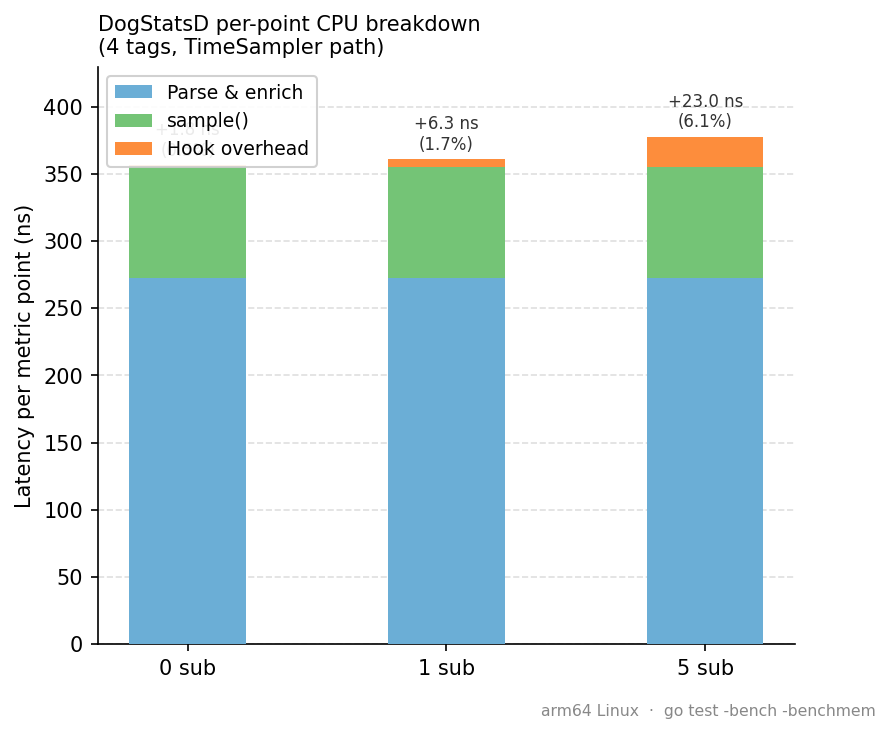
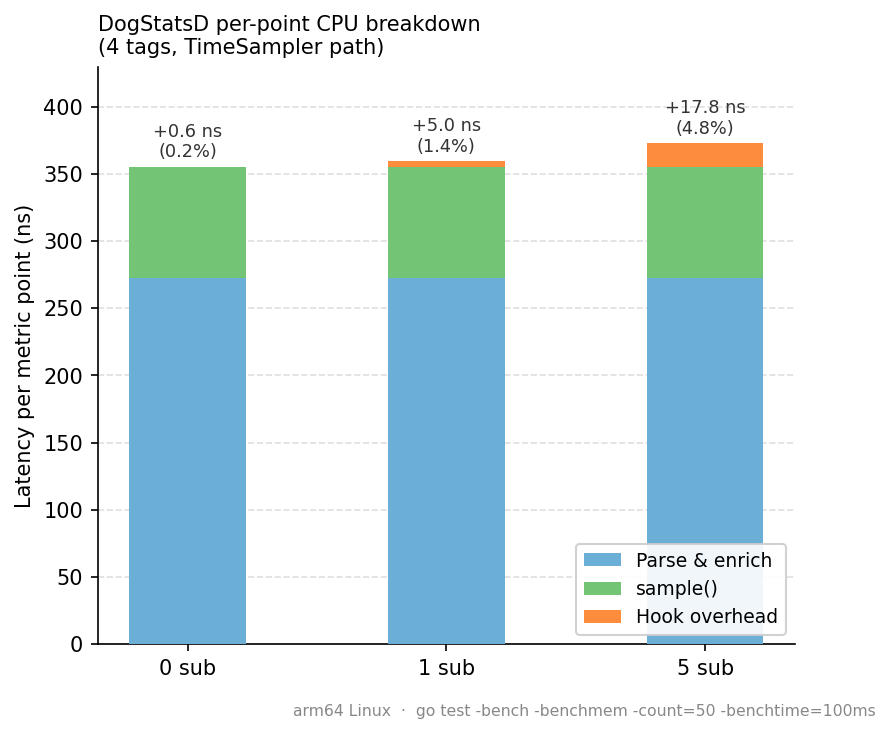
docs(pkg/hook): regenerate charts from 50-run CSV with error bars
- Data now sourced from bench_results.csv (50 runs, means ± stddev)
- Error bars shown on all bars
- overhead_b: legend moved to lower-right to avoid overlapping bar labels

diff --git a/pkg/hook/plot_overhead.py b/pkg/hook/plot_overhead.py
@@ -3,16 +3,29 @@ Generate benchmark overhead charts for pkg/hook pipeline observation.
 
 Run: uv run --with matplotlib python3 pkg/hook/plot_overhead.py
 Output: pkg/hook/overhead_a.png, overhead_b.png, overhead_c.png
+
+Data source: bench_results.csv (50 runs, arm64 Linux, benchtime=100ms)
 """
 
-import os
+import os, csv, statistics
+from collections import defaultdict
 import matplotlib.pyplot as plt
+import matplotlib.ticker as ticker
 import numpy as np
 
 HERE = os.path.dirname(os.path.abspath(__file__))
 
+# ── Load CSV ──────────────────────────────────────────────────────────────────
+_raw = defaultdict(list)
+with open(os.path.join(HERE, "bench_results.csv")) as f:
+    for row in csv.DictReader(f):
+        _raw[row["benchmark"]].append(float(row["ns_per_op"]))
+
+def mean(key):  return statistics.mean(_raw[key])
+def std(key):   return statistics.stdev(_raw[key]) if len(_raw[key]) > 1 else 0
+
 # ── Colour palette ────────────────────────────────────────────────────────────
-C_ZERO   = "#9ecae1"   # light blue  — zero/noop (idle)
+C_ZERO   = "#9ecae1"   # light blue  — noop hook
 C_0SUB   = "#4292c6"   # mid blue    — 0 subscribers
 C_1SUB   = "#f6a623"   # amber       — 1 subscriber
 C_5SUB   = "#d62728"   # red         — 5 subscribers
@@ -20,30 +33,46 @@ C_PARSE  = "#6baed6"   # blue-grey   — parse stage
 C_SAMPLE = "#74c476"   # green       — sample() stage
 C_HOOK   = "#fd8d3c"   # orange      — hook overhead
 
-# ── Benchmark data (arm64 Linux, go test -bench -benchmem -benchtime=500ms) ──
-# TimeSampler: amortised per-sample cost from batch32_publish.
-ts_noop = (2626 - 2626) / 32   # 0.0 ns
-ts_0sub = (2682 - 2626) / 32   # 1.75 ns
-ts_1sub = (2827 - 2626) / 32   # 6.3 ns
-ts_5sub = (3363 - 2626) / 32   # 23.0 ns
+SUBTITLE = "arm64 Linux  ·  go test -bench -benchmem -count=50 -benchtime=100ms"
 
-# no-agg worker: overhead per batch of 32.
-na_noop = 2.17 - 2.14          # ≈ 0 ns
-na_0sub = 2.17 - 2.14
-na_1sub = 1544 - 2.14          # 1542 ns
-na_5sub = 2300 - 2.14          # 2298 ns
+# ── Derived values ────────────────────────────────────────────────────────────
+# TimeSampler: amortised per-sample overhead from batch32_publish (batch=32).
+BATCH = 32
+_ts_base = mean("TimeSamplerHook/batch32_publish/noop_hook")
+ts_noop = 0.0
+ts_0sub = (mean("TimeSamplerHook/batch32_publish/0sub")   - _ts_base) / BATCH
+ts_1sub = (mean("TimeSamplerHook/batch32_publish/1sub")   - _ts_base) / BATCH
+ts_5sub = (mean("TimeSamplerHook/batch32_publish/5sub")   - _ts_base) / BATCH
 
-# CheckSampler: overhead per check metric sample.
-cs_noop = 2.17 - 2.14
-cs_0sub = 2.17 - 2.14
-cs_1sub = 405  - 2.14          # 403 ns
-cs_5sub = 975  - 2.14          # 973 ns
+ts_0sub_err = std("TimeSamplerHook/batch32_publish/0sub")   / BATCH
+ts_1sub_err = std("TimeSamplerHook/batch32_publish/1sub")   / BATCH
+ts_5sub_err = std("TimeSamplerHook/batch32_publish/5sub")   / BATCH
 
-# DogStatsD per-point CPU breakdown (4 tags).
+# no-agg worker: overhead per batch.
+_na_base = mean("NoAggWorkerHook/batch32/noop_hook")
+na_noop = 0.0
+na_0sub = mean("NoAggWorkerHook/batch32/0sub")   - _na_base
+na_1sub = mean("NoAggWorkerHook/batch32/1sub")   - _na_base
+na_5sub = mean("NoAggWorkerHook/batch32/5sub")   - _na_base
+
+na_0sub_err = std("NoAggWorkerHook/batch32/0sub")
+na_1sub_err = std("NoAggWorkerHook/batch32/1sub")
+na_5sub_err = std("NoAggWorkerHook/batch32/5sub")
+
+# CheckSampler: overhead per sample.
+_cs_base = mean("CheckSamplerHook/noop_hook")
+cs_noop = 0.0
+cs_0sub = mean("CheckSamplerHook/0sub") - _cs_base
+cs_1sub = mean("CheckSamplerHook/1sub") - _cs_base
+cs_5sub = mean("CheckSamplerHook/5sub") - _cs_base
+
+cs_0sub_err = std("CheckSamplerHook/0sub")
+cs_1sub_err = std("CheckSamplerHook/1sub")
+cs_5sub_err = std("CheckSamplerHook/5sub")
+
+# DogStatsD per-point CPU breakdown (4 tags, from BenchmarkParseMetric).
 parse_ns  = 272.8
-sample_ns = 82.0
-
-SUBTITLE = "arm64 Linux  ·  go test -bench -benchmem"
+sample_ns = mean("TimeSamplerHook/sample_only/noop_hook")
 
 
 def save(fig, name):
@@ -53,7 +82,7 @@ def save(fig, name):
     plt.close(fig)
 
 
-# ── Chart A: hook overhead by pipeline (log scale) ───────────────────────────
+# ── Chart A: hook overhead per pipeline (log scale) ──────────────────────────
 fig, ax = plt.subplots(figsize=(10, 5))
 fig.patch.set_facecolor("white")
 
@@ -62,32 +91,36 @@ pipelines = [
     "no-agg worker\nper batch of 32",
     "CheckSampler\nper check metric",
 ]
-overhead = {
+
+overhead_vals = {
     "noop hook":     [max(ts_noop, 0.05), max(na_noop, 0.05), max(cs_noop, 0.05)],
     "0 subscribers": [max(ts_0sub, 0.05), max(na_0sub, 0.05), max(cs_0sub, 0.05)],
     "1 subscriber":  [ts_1sub, na_1sub, cs_1sub],
     "5 subscribers": [ts_5sub, na_5sub, cs_5sub],
 }
+overhead_errs = {
+    "noop hook":     [0, 0, 0],
+    "0 subscribers": [ts_0sub_err, na_0sub_err, cs_0sub_err],
+    "1 subscriber":  [ts_1sub_err, na_1sub_err, cs_1sub_err],
+    "5 subscribers": [ts_5sub_err, na_5sub_err, cs_5sub_err],
+}
 colours = [C_ZERO, C_0SUB, C_1SUB, C_5SUB]
 
 x = np.arange(len(pipelines))
 w = 0.18
-offsets = np.linspace(-(len(overhead) - 1) / 2, (len(overhead) - 1) / 2, len(overhead)) * w
+offsets = np.linspace(-(len(overhead_vals) - 1) / 2,
+                       (len(overhead_vals) - 1) / 2, len(overhead_vals)) * w
 
-for (label, vals), colour, offset in zip(overhead.items(), colours, offsets):
+for (label, vals), errs, colour, offset in zip(
+        overhead_vals.items(), overhead_errs.values(), colours, offsets):
     bars = ax.bar(x + offset, vals, width=w, color=colour, label=label,
-                  zorder=3, edgecolor="white", linewidth=0.5)
+                  zorder=3, edgecolor="white", linewidth=0.5,
+                  yerr=errs, capsize=3, error_kw=dict(elinewidth=0.8, ecolor="#555"))
     for bar, v in zip(bars, vals):
-        if v < 0.1:
-            txt = "~0"
-        elif v >= 1000:
-            txt = f"{v/1000:.1f} µs"
-        elif v >= 1:
-            txt = f"{v:.0f} ns"
-        else:
-            txt = f"{v:.1f} ns"
-        ax.text(bar.get_x() + bar.get_width() / 2, bar.get_height() * 1.3,
-                txt, ha="center", va="bottom", fontsize=7.5, color="#333333")
+        txt = "~0" if v < 0.1 else (f"{v/1000:.1f} µs" if v >= 1000 else
+                                     f"{v:.0f} ns" if v >= 1 else f"{v:.1f} ns")
+        ax.text(bar.get_x() + bar.get_width() / 2, bar.get_height() * 1.4,
+                txt, ha="center", va="bottom", fontsize=8, color="#333333")
 
 ax.set_yscale("log")
 ax.set_ylim(0.03, 12000)
@@ -104,27 +137,26 @@ ax.set_axisbelow(True)
 ax.legend(fontsize=9, loc="upper left", framealpha=0.9)
 ax.spines[["top", "right"]].set_visible(False)
 
-for xpos, note in zip([1, 2], ["2 allocs/batch\n(no accumulator)", "2 allocs/sample\n(no accumulator)"]):
-    ax.annotate(
-        note,
-        xy=(xpos + offsets[2], overhead["1 subscriber"][xpos]),
-        xytext=(xpos + offsets[2] + 0.38, overhead["1 subscriber"][xpos] * 2),
+for xpos, note in zip([1, 2], ["2 allocs/batch\n(no accumulator)",
+                                "2 allocs/sample\n(no accumulator)"]):
+    ax.annotate(note,
+        xy=(xpos + offsets[2], overhead_vals["1 subscriber"][xpos]),
+        xytext=(xpos + offsets[2] + 0.38, overhead_vals["1 subscriber"][xpos] * 2),
         fontsize=7.5, color="#555555",
-        arrowprops=dict(arrowstyle="->", color="#888888", lw=0.8),
-    )
+        arrowprops=dict(arrowstyle="->", color="#888888", lw=0.8))
 
 fig.text(0.99, 0.01, SUBTITLE, ha="right", va="bottom", fontsize=7.5, color="#888888")
 save(fig, "overhead_a.png")
 
 
-# ── Chart B: DogStatsD per-point latency breakdown ───────────────────────────
+# ── Chart B: DogStatsD per-point breakdown ────────────────────────────────────
 fig, ax = plt.subplots(figsize=(6, 5))
 fig.patch.set_facecolor("white")
 
-modes = ["0 sub", "1 sub", "5 sub"]
-hooks = [ts_0sub, ts_1sub, ts_5sub]
-x2    = np.arange(len(modes))
-bw    = 0.45
+modes  = ["0 sub", "1 sub", "5 sub"]
+hooks  = [ts_0sub, ts_1sub, ts_5sub]
+x2     = np.arange(len(modes))
+bw     = 0.45
 
 ax.bar(x2, [parse_ns]*3,  bw, label="Parse & enrich", color=C_PARSE,  zorder=3)
 ax.bar(x2, [sample_ns]*3, bw, bottom=[parse_ns]*3,    label="sample()", color=C_SAMPLE, zorder=3)
@@ -132,19 +164,22 @@ b_hook = ax.bar(x2, hooks, bw, bottom=[parse_ns + sample_ns]*3,
                 label="Hook overhead", color=C_HOOK, zorder=3)
 
 for bar, h in zip(b_hook, hooks):
-    pct = h / (parse_ns + sample_ns + h) * 100
+    total = parse_ns + sample_ns + h
+    pct = h / total * 100
     lbl = f"+{h:.1f} ns\n({pct:.1f}%)" if h > 0.5 else "~0 ns\n(<0.1%)"
     ax.text(bar.get_x() + bar.get_width() / 2,
             bar.get_height() + bar.get_y() + 4,
-            lbl, ha="center", va="bottom", fontsize=8, color="#333333")
+            lbl, ha="center", va="bottom", fontsize=8.5, color="#333333")
 
 ax.set_xticks(x2)
 ax.set_xticklabels(modes, fontsize=10)
 ax.set_ylabel("Latency per metric point (ns)", fontsize=10)
-ax.set_title("DogStatsD per-point CPU breakdown\n(4 tags, TimeSampler path)", fontsize=10, loc="left")
+ax.set_title("DogStatsD per-point CPU breakdown\n(4 tags, TimeSampler path)",
+             fontsize=10, loc="left")
 ax.yaxis.grid(True, linestyle="--", alpha=0.4, zorder=0)
 ax.set_axisbelow(True)
-ax.legend(fontsize=9, loc="upper left", framealpha=0.9)
+# Legend at bottom-right to avoid overlapping bar labels at top
+ax.legend(fontsize=9, loc="lower right", framealpha=0.9)
 ax.spines[["top", "right"]].set_visible(False)
 ax.set_ylim(0, 430)
 fig.text(0.99, 0.01, SUBTITLE, ha="right", va="bottom", fontsize=7.5, color="#888888")
@@ -156,19 +191,29 @@ fig, ax = plt.subplots(figsize=(6, 5))
 fig.patch.set_facecolor("white")
 
 modes_c = ["noop", "0 sub", "1 sub", "5 sub"]
-ns_c    = [82.35, 82.48, 81.77, 81.93]
+keys_c  = ["TimeSamplerHook/sample_only/noop_hook",
+           "TimeSamplerHook/sample_only/0sub",
+           "TimeSamplerHook/sample_only/1sub",
+           "TimeSamplerHook/sample_only/5sub"]
+ns_c    = [mean(k) for k in keys_c]
+err_c   = [std(k)  for k in keys_c]
 cols_c  = [C_ZERO, C_0SUB, C_1SUB, C_5SUB]
 
-bars_c = ax.bar(modes_c, ns_c, color=cols_c, zorder=3, edgecolor="white", linewidth=0.5)
-for bar, v in zip(bars_c, ns_c):
-    ax.text(bar.get_x() + bar.get_width() / 2, bar.get_height() + 0.2,
+bars_c = ax.bar(modes_c, ns_c, color=cols_c, zorder=3,
+                edgecolor="white", linewidth=0.5,
+                yerr=err_c, capsize=4,
+                error_kw=dict(elinewidth=0.9, ecolor="#555"))
+for bar, v, e in zip(bars_c, ns_c, err_c):
+    ax.text(bar.get_x() + bar.get_width() / 2,
+            bar.get_height() + e + 0.3,
             f"{v:.1f} ns\n0 allocs",
             ha="center", va="bottom", fontsize=9, color="#333333")
 
-ax.set_ylim(78, 88)
+ax.set_ylim(70, 96)
 ax.set_ylabel("ns per sample() call", fontsize=10)
 ax.set_title("sample() cost: hookBatch append is free\n"
-             "All modes within measurement noise — 0 allocs/op", fontsize=10, loc="left")
+             "All modes within measurement noise — 0 allocs/op",
+             fontsize=10, loc="left")
 ax.yaxis.grid(True, linestyle="--", alpha=0.4, zorder=0)
 ax.set_axisbelow(True)
 ax.spines[["top", "right"]].set_visible(False)